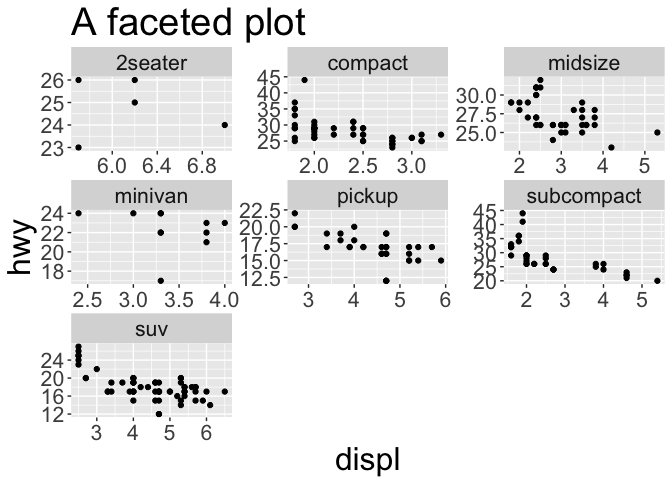
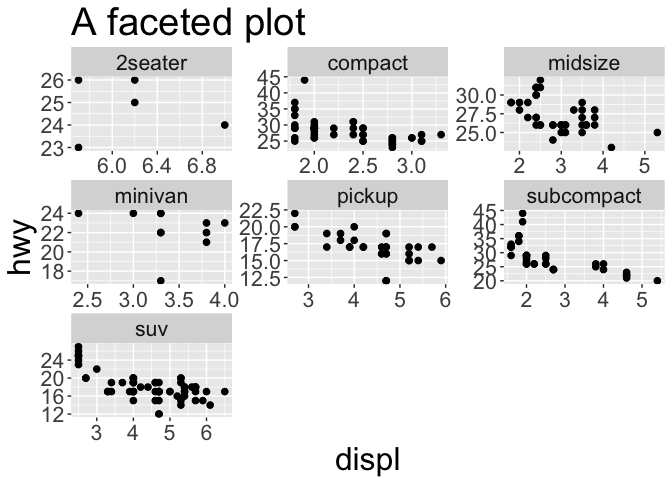
update ggpres example in man and in README

diff --git a/README.md b/README.md
@@ -64,7 +64,7 @@ n_letter_words(5, num_letters = 2, case = "lower")
 `ggpres`
 --------
 
-Typically, if you have a plot designed to look good in print, when it is included in a presentation, the text on the title/axes/legend is too small to be read by everyone in the room. `ggpres` fixes that by taking a `ggplot` plot and increasing the size of the text. Usage is `ggpres(g, title_size = 24, text_size = 18)`.
+Typically, if you have a plot designed to look good in print or on the web, when it is included in a presentation, the text on the title, axes, legend and facet strips is too small to be read by everyone in the room. `ggpres` fixes that by taking a `ggplot` plot and increasing the size of the text. Usage is `ggpres(g, title_size = 24, text_size = 18)`. `ggpres` only deals with text size, and further adjustments to the plot may still be necessary to make it appropriate for a presentation, such as increasing point size or line width. Thanksfully, the modular nature of `ggplot` makes it easy to make such adjustments after passing the plot through `ggpres`
 
 ``` r
 library(ggplot2)
@@ -78,7 +78,8 @@ g
 <img src="README-ggpres_example-1.png" width="100%" />
 
 ``` r
-ggpres(g, text_size = 16)
+ggpres(g, text_size = 16) +
+  geom_point(size = 2)
 ```
 
 <img src="README-ggpres_example-2.png" width="100%" />
